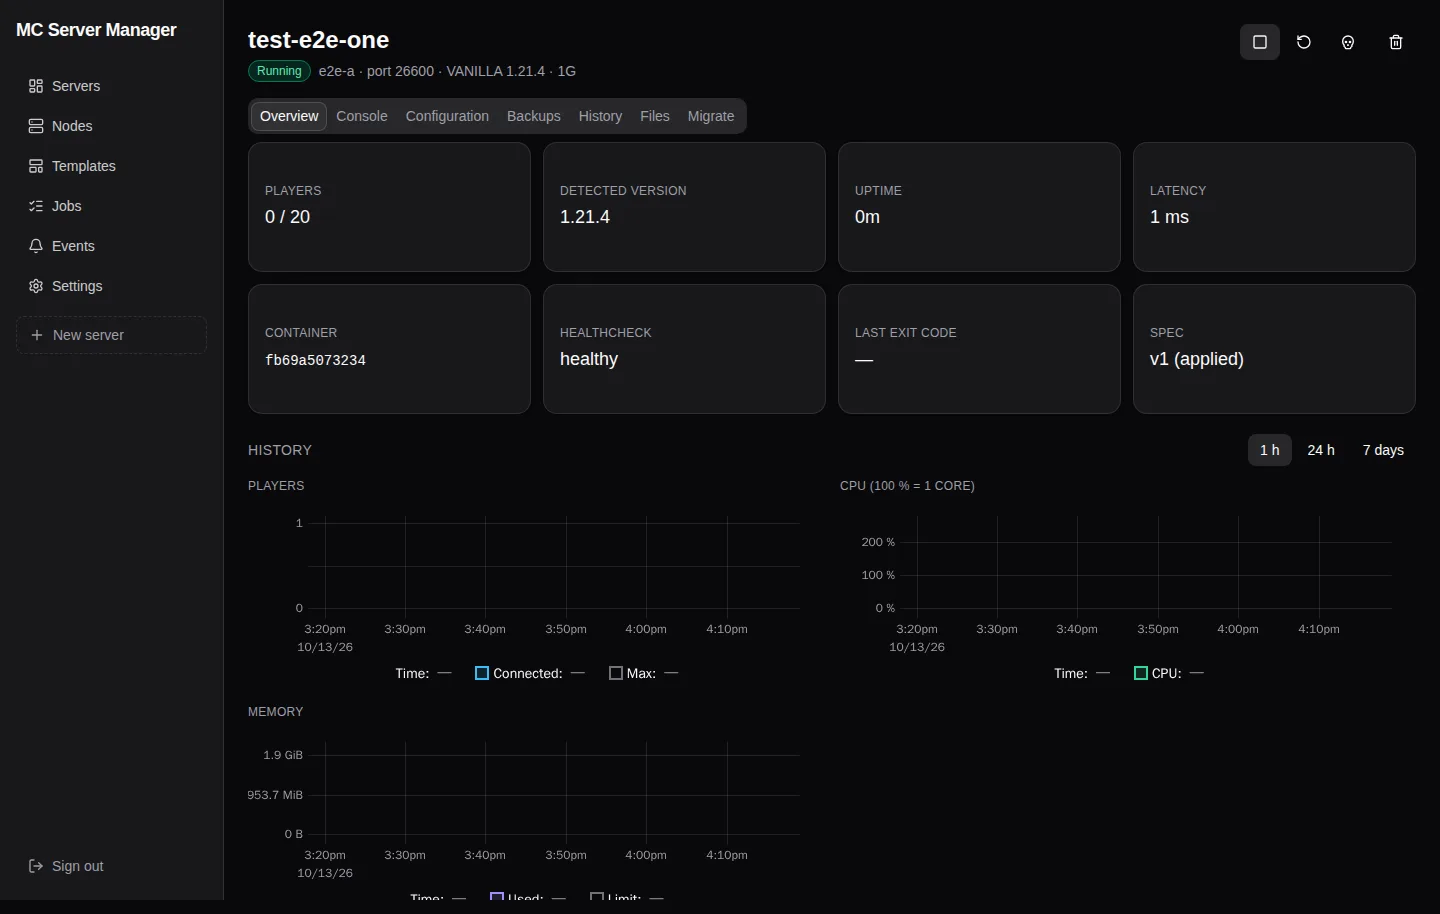
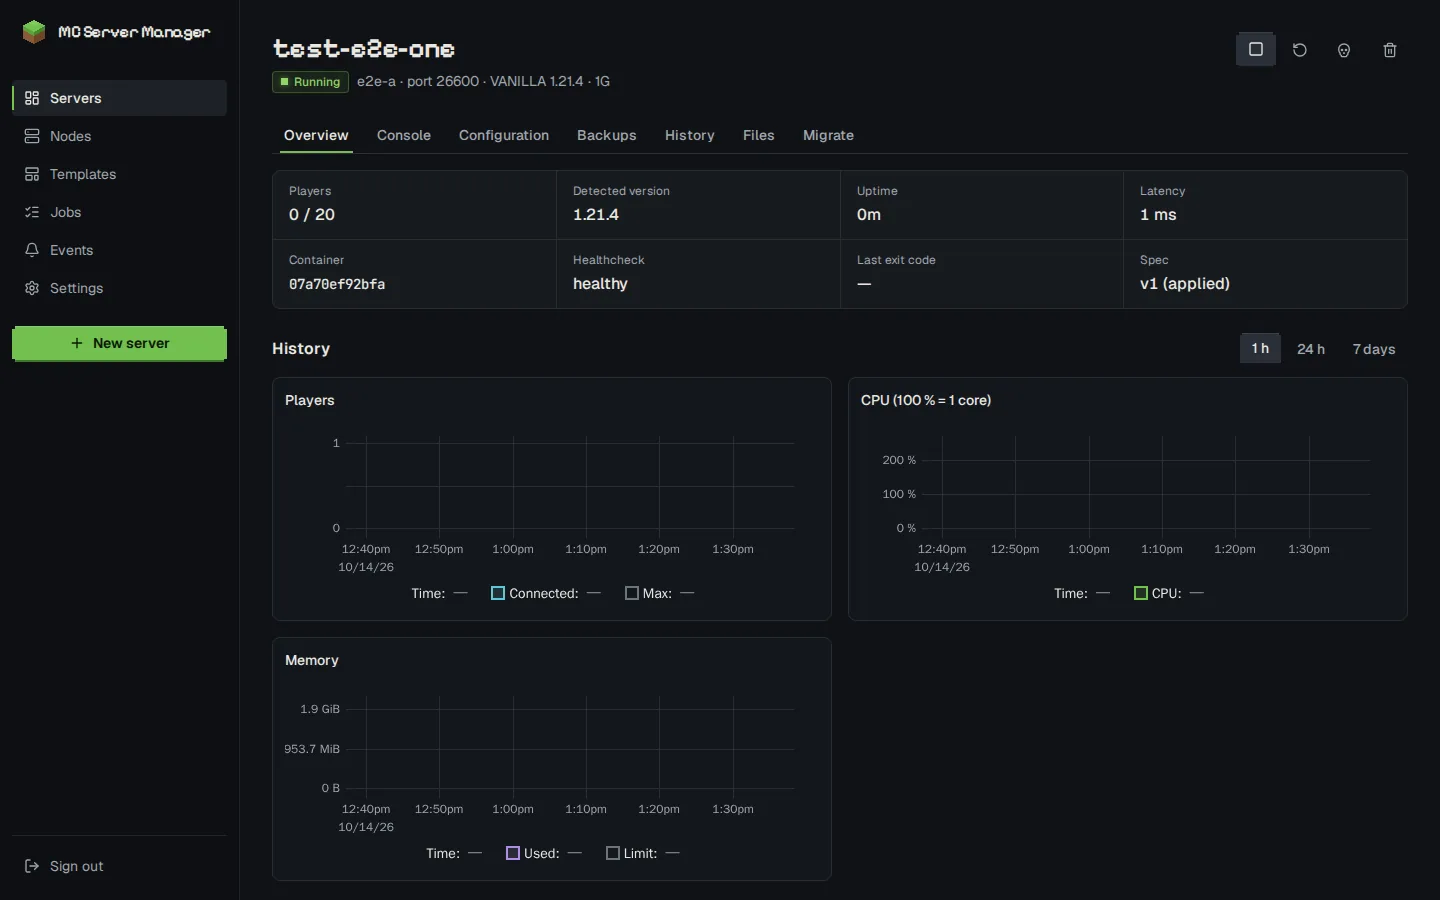
docs(website): screenshots and social card of the restyled panel

diff --git a/website/src/components/landing/tour.tsx b/website/src/components/landing/tour.tsx
@@ -7,7 +7,7 @@ import { Section, SectionHeading } from "./section";
 const STOPS = [
   { id: "dashboard", label: "Dashboard", shot: "11-dashboard-node-cards", caption: "Every node with its CPU, RAM and disk, and every server with its status, players, version, node and the address players join." },
   { id: "new-server", label: "New server", shot: "01b-selector-version", caption: "A three-step wizard: a template or a server from scratch (type, a version from the official lists, memory), then the node and name, then a review." },
-  { id: "overview", label: "Overview", shot: "03-overview-charts", height: 914, caption: "Players, detected version, uptime, latency and health, with charts for the last hour, day or week." },
+  { id: "overview", label: "Overview", shot: "03-overview-charts", caption: "Players, detected version, uptime, latency and health, with charts for the last hour, day or week." },
   { id: "console", label: "Console", shot: "04-console", caption: "The live log with a filter, and commands sent over RCON with history." },
   { id: "configuration", label: "Configuration", shot: "05-configuration", caption: "Version and mods, properties, players, network, resources and advanced settings, reviewed before they are applied." },
   { id: "backups", label: "Backups", shot: "06-backups", caption: "Backups on demand or on a schedule, with retention and exclusions, and restore with the current data set aside." },
@@ -43,7 +43,7 @@ export function Tour() {
         </Tabs.List>
         {STOPS.map((s) => (
           <Tabs.Content key={s.id} value={s.id} className="mt-2 rounded-xl outline-none focus-visible:ring-2 focus-visible:ring-torch lg:mt-0">
-            <BrowserFrame src={screenshot(s.shot)} alt={`${s.label}: ${s.caption}`} height={"height" in s ? s.height : 900} />
+            <BrowserFrame src={screenshot(s.shot)} alt={`${s.label}: ${s.caption}`} />
             <p className="mt-4 max-w-[46rem] text-[0.9375rem] leading-relaxed text-fog">{s.caption}</p>
           </Tabs.Content>
         ))}
